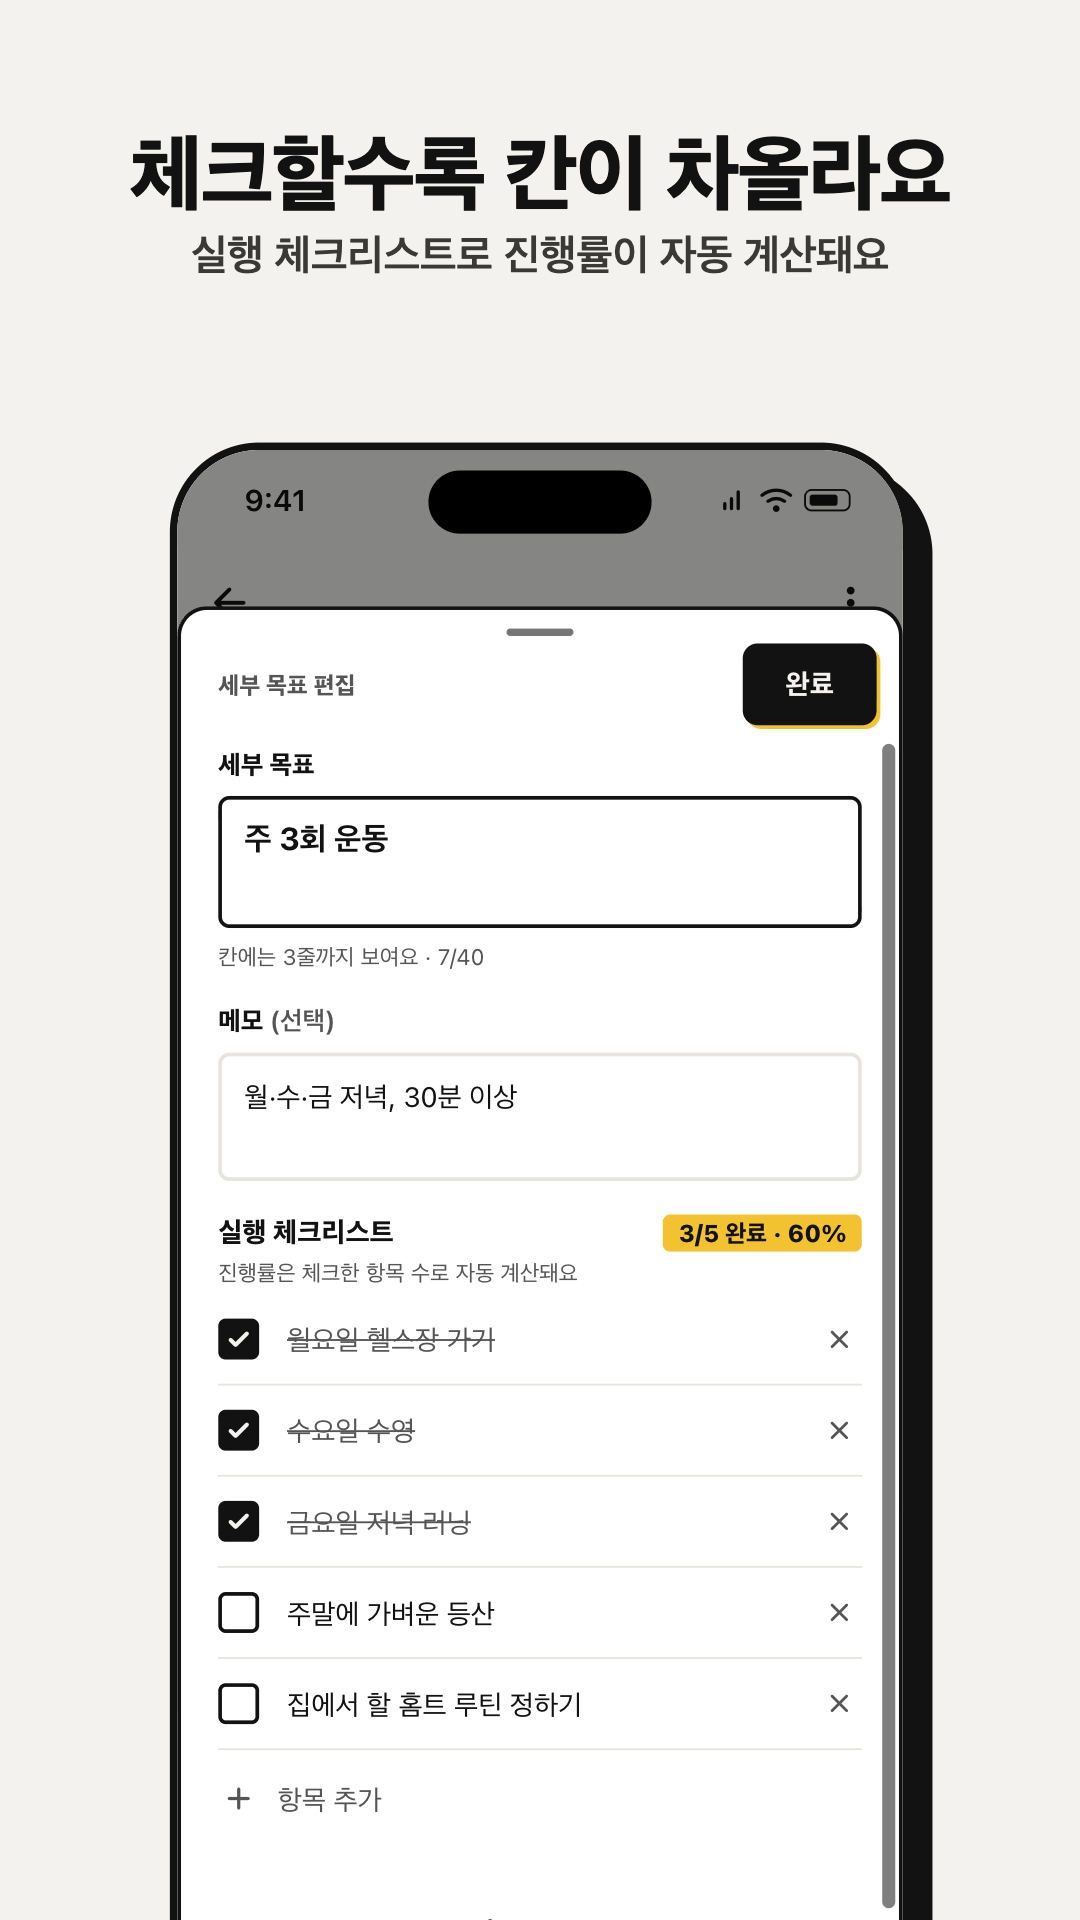
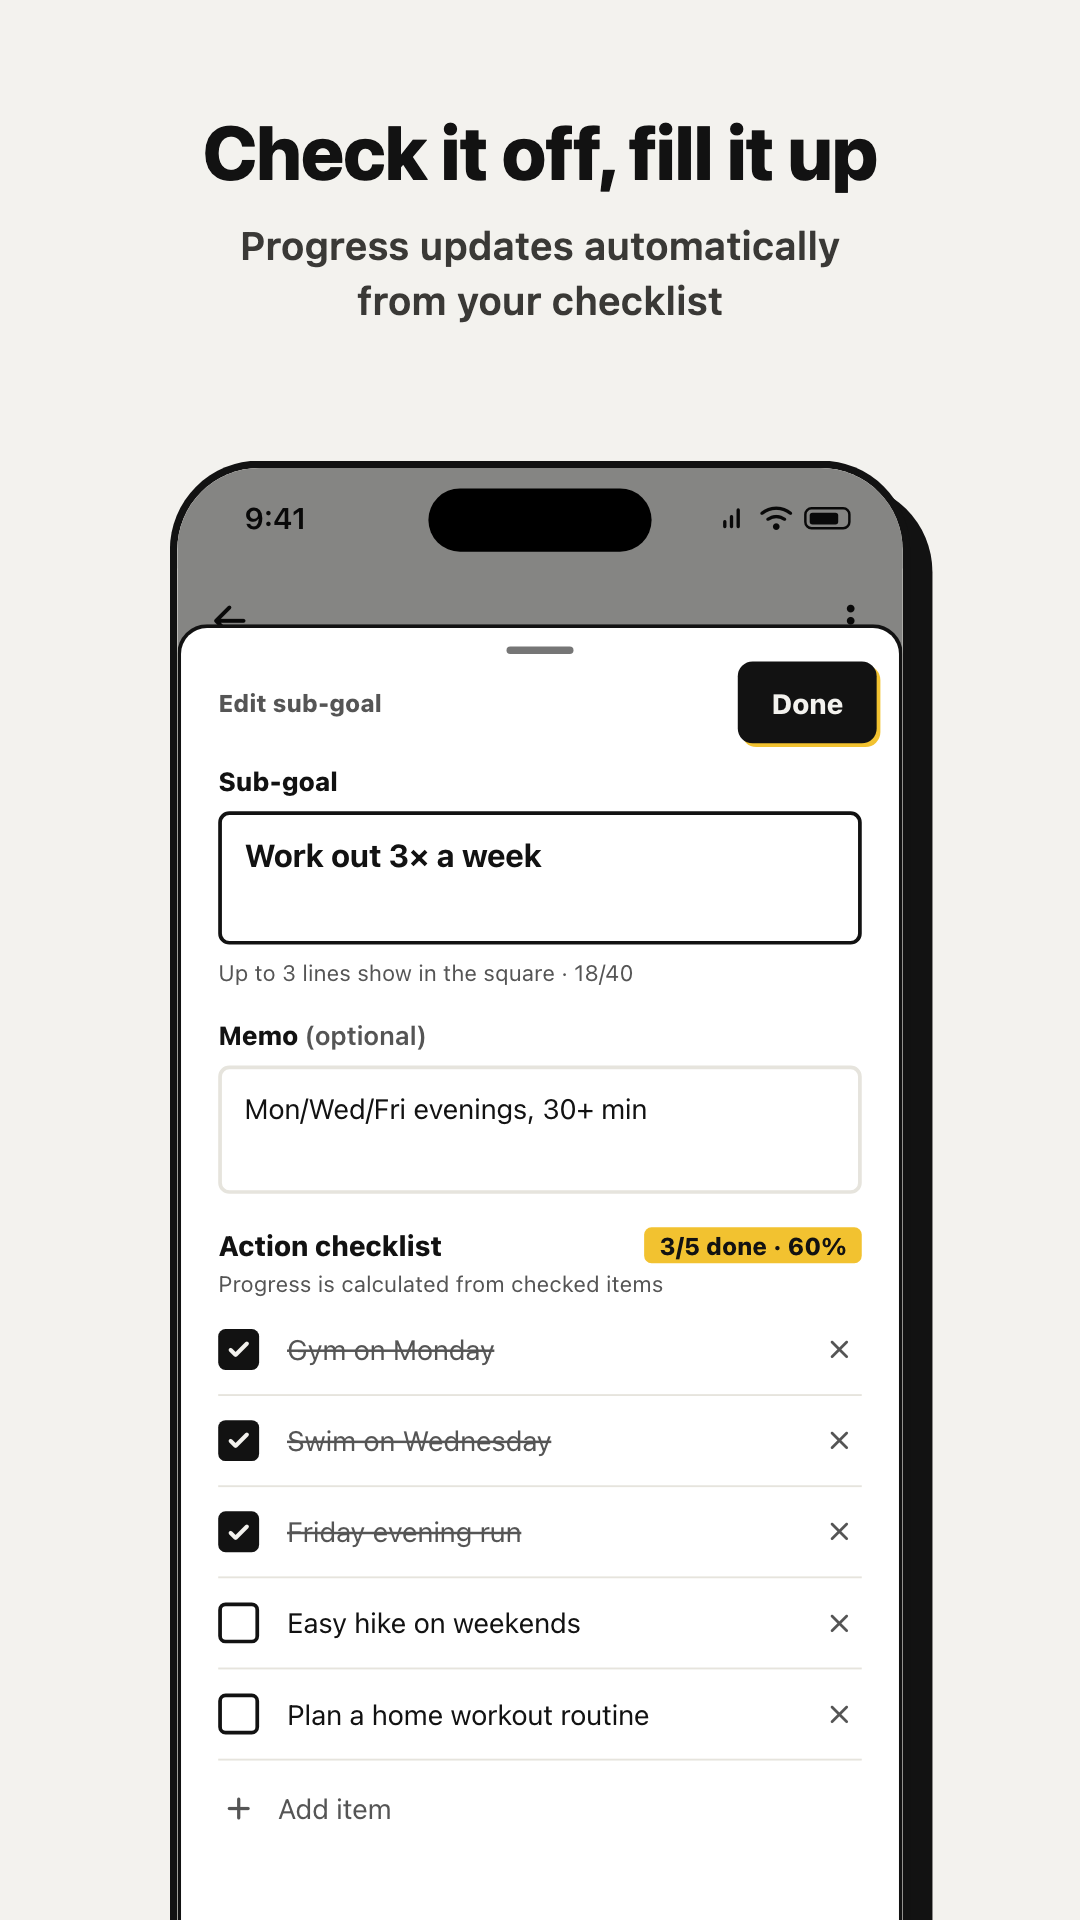
언어별 스토어 스크린샷 추가 (en-US, ja, es-ES, fr-FR, ru)

Changed region(s): [[0.1528, 0.2188, 0.8556, 1.0], [0.1222, 0.0625, 0.8861, 0.1875], [0.1528, 0.25, 0.1833, 0.2812]]

diff --git a/comment_last.md b/comment_last.md
@@ -229,3 +229,6 @@
 
 ## 2026-11-05 10:21:39
 - fastlane 업그레이드 후 iPhone Duo 스크린샷 업로드, 언어별 스크린샷 지원 언어 확인
+
+## 2026-11-05 10:41:08
+- 언어별 스토어 스크린샷 디자인(아티팩트) 확인 후 fastlane으로 언어별 업로드
